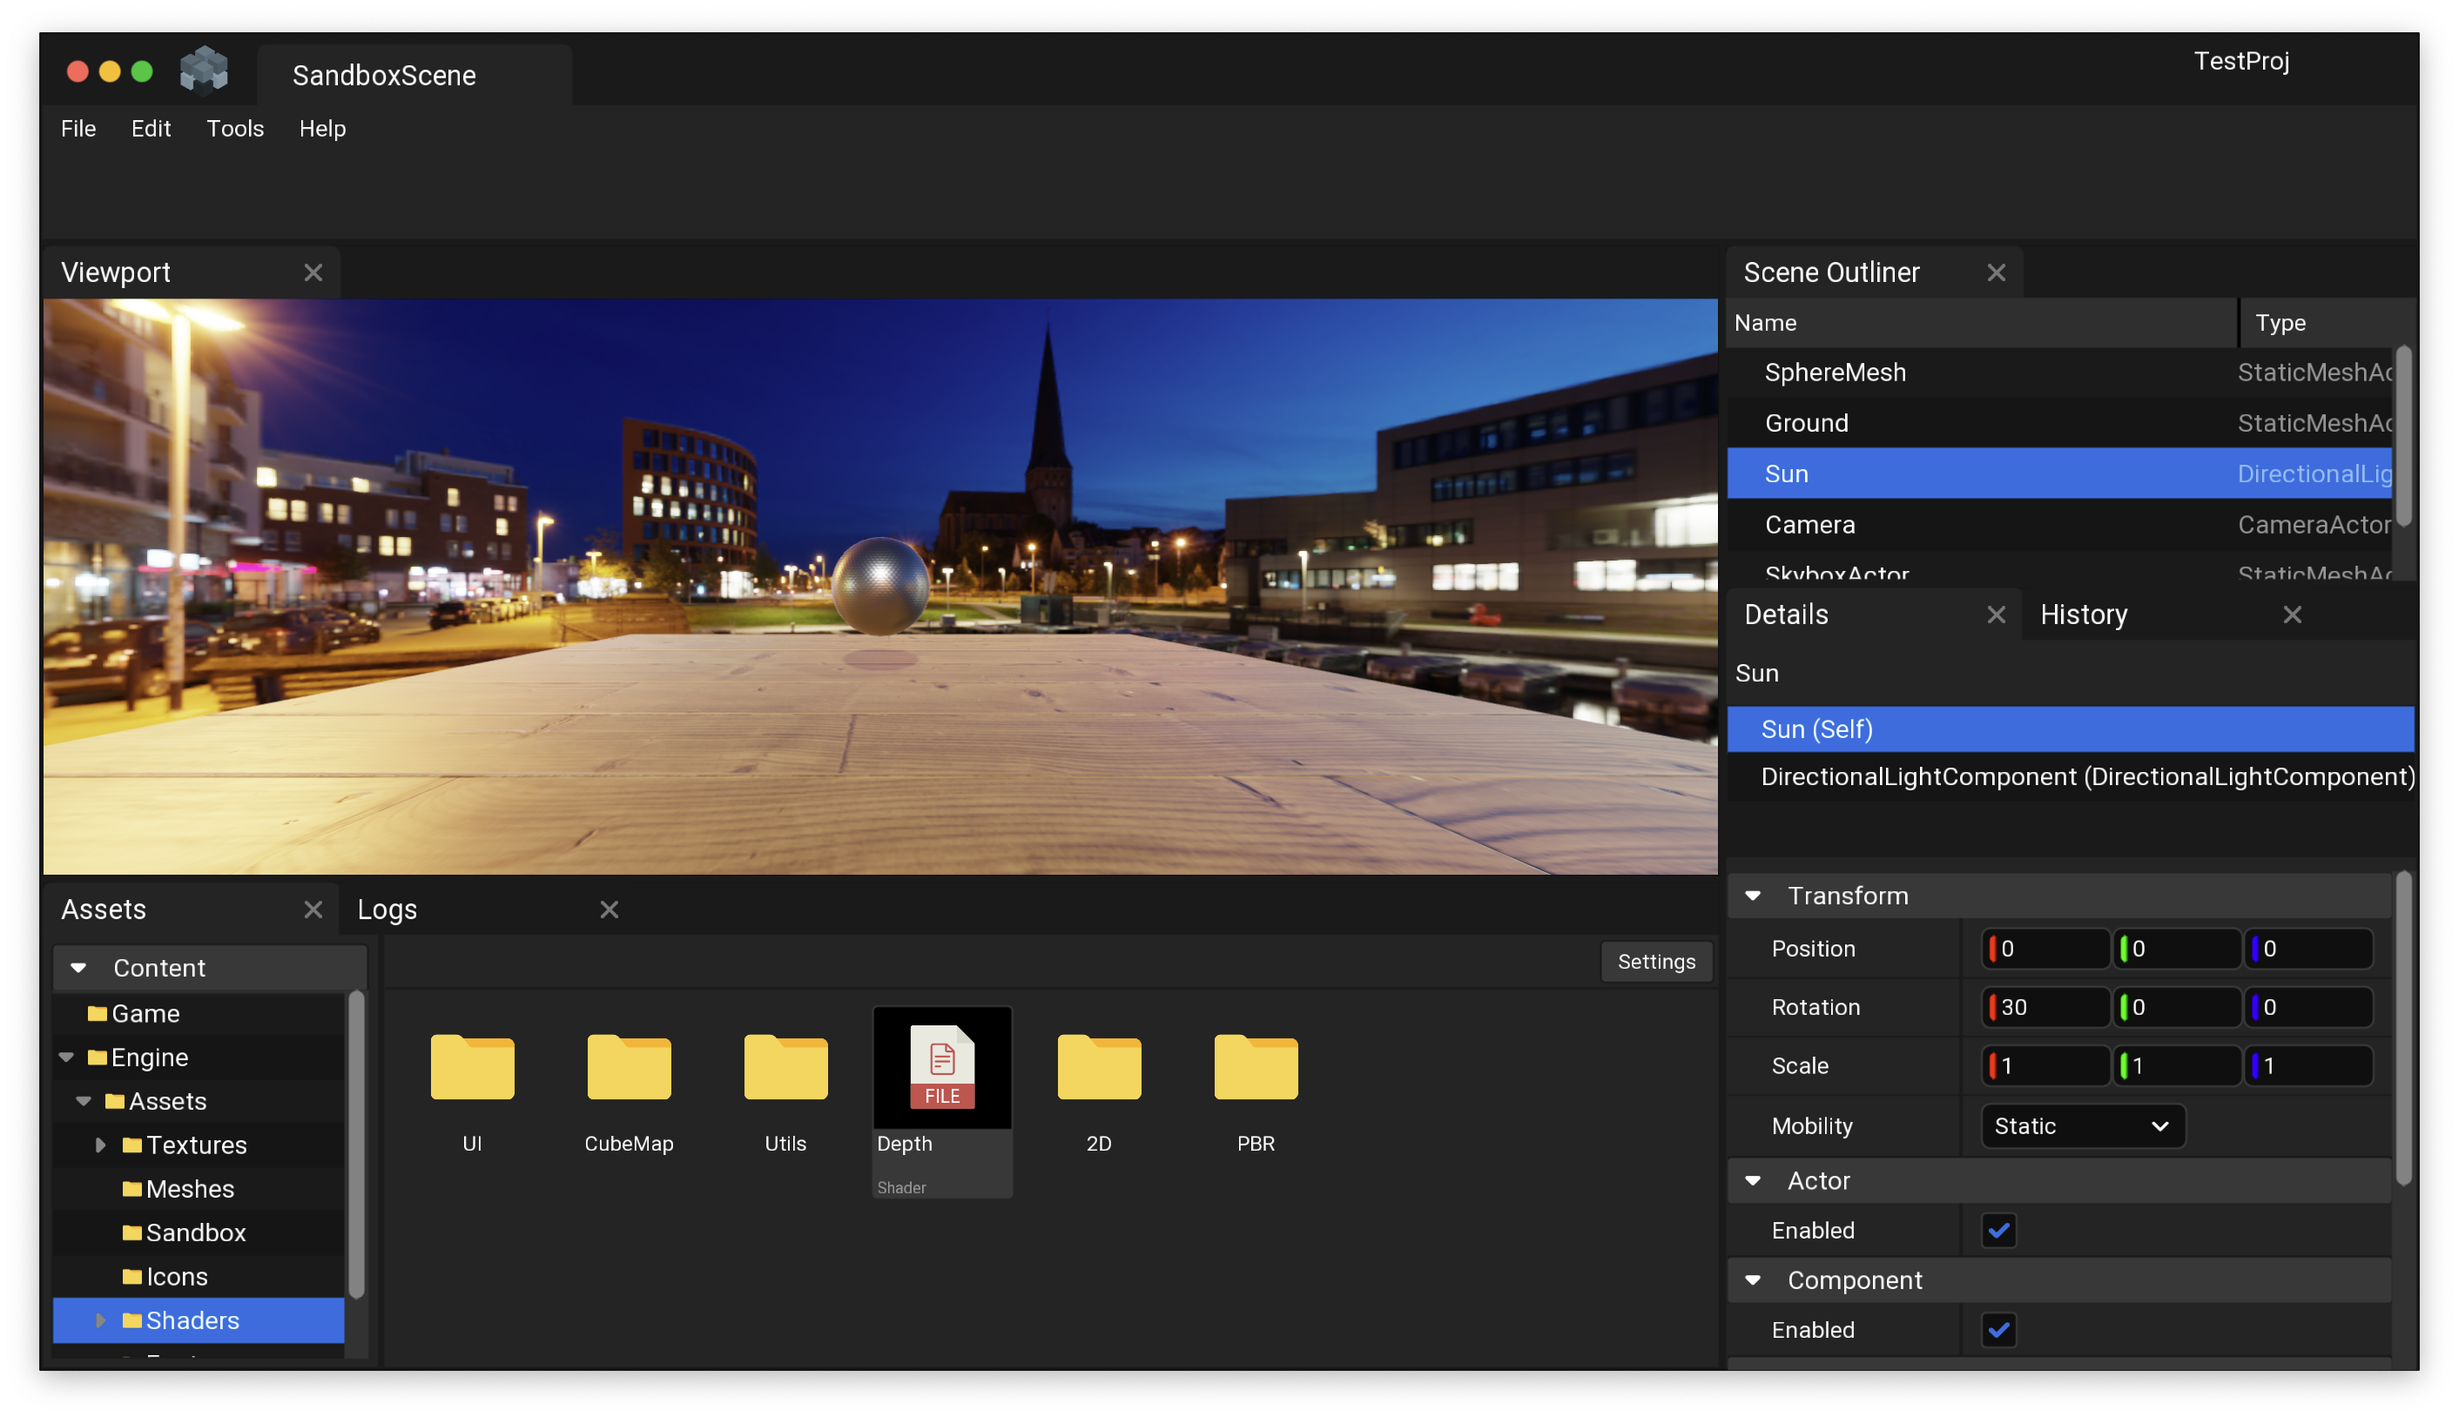
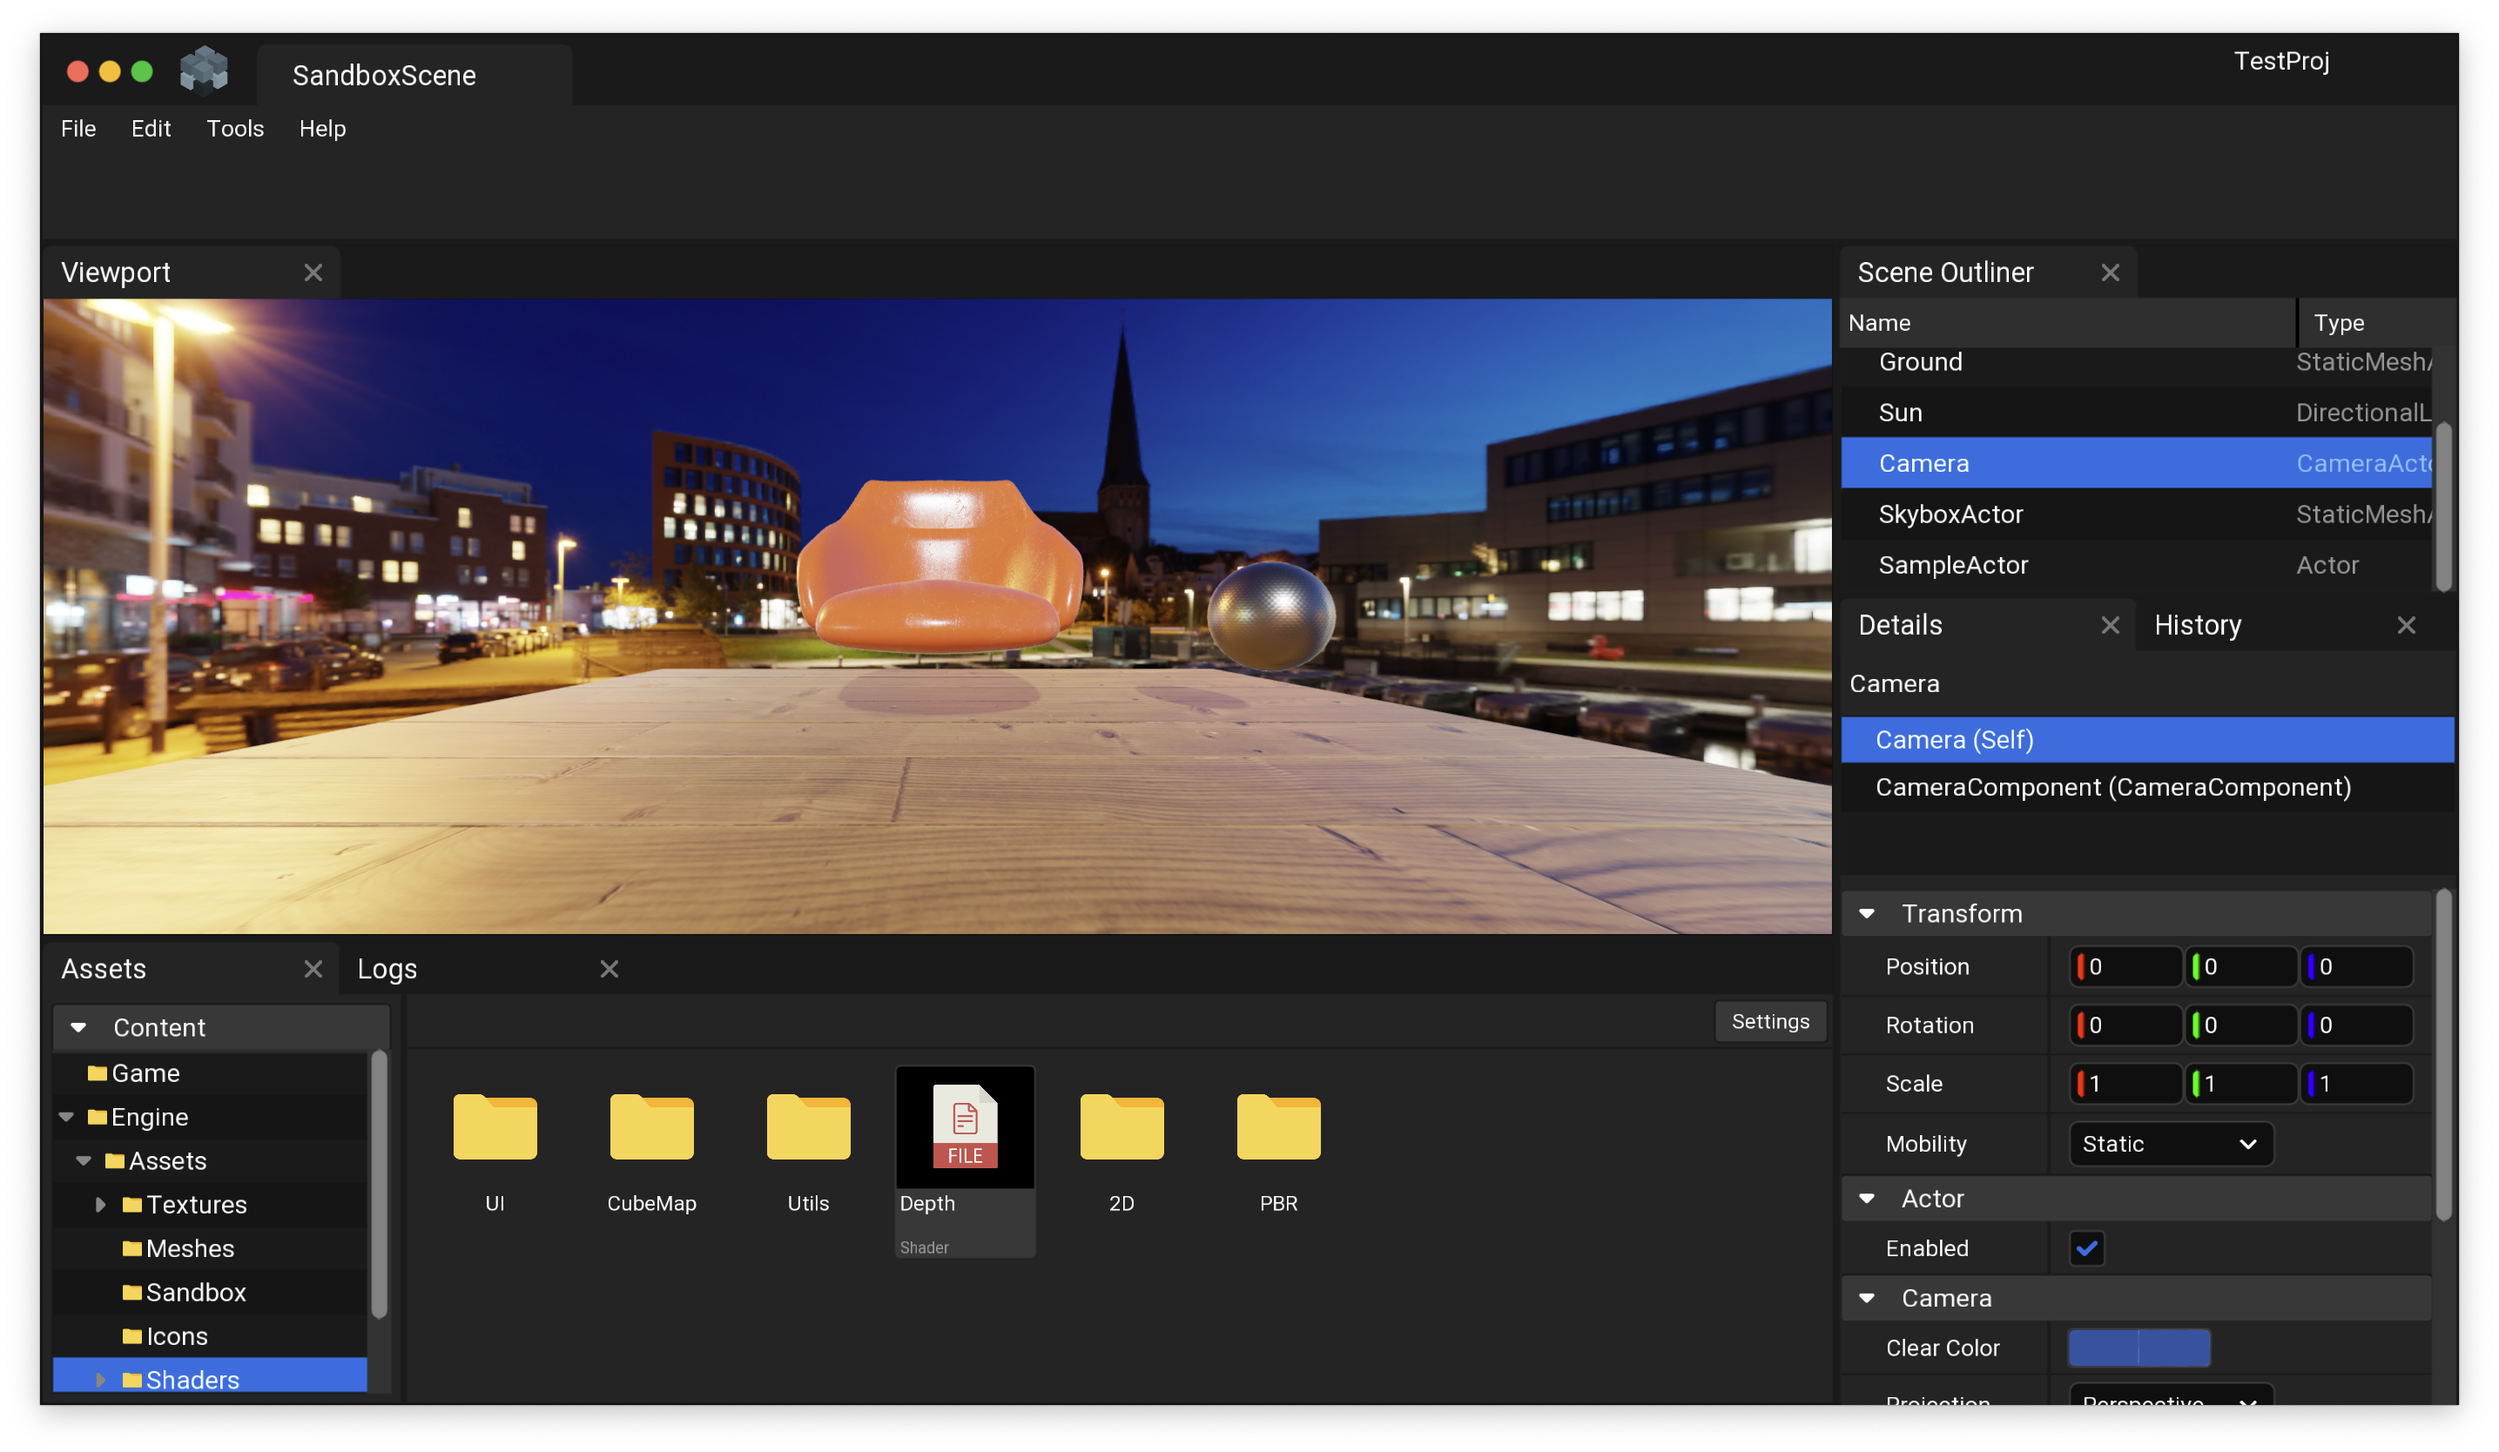
minor changes

diff --git a/Editor/Source/CrystalEditor/Private/CrystalEditor/Editor/SceneEditor/SceneEditor.cpp b/Editor/Source/CrystalEditor/Private/CrystalEditor/Editor/SceneEditor/SceneEditor.cpp
@@ -86,12 +86,24 @@ namespace CE::Editor
                 cubeMesh->SetModelAsset(cubeModel);
             }
 
+            Ref<StaticMesh> chairMesh = assetManager->LoadAssetAtPath<StaticMesh>("/Engine/Assets/Sandbox/chair");
+            StaticMeshActor* chairActor = CreateObject<StaticMeshActor>(scene, "ChairActor");
+            scene->AddActor(chairActor);
+            {
+                StaticMeshComponent* meshComponent = chairActor->GetMeshComponent();
+                meshComponent->SetStaticMesh(chairMesh);
+                meshComponent->SetLocalPosition(Vec3(0, 0, 5));
+                meshComponent->SetLocalEulerAngles(Vec3(-90, -180, 0));
+                meshComponent->SetLocalScale(Vec3(1, 1, 1) * 0.05f);
+                meshComponent->SetMaterial(plasticMaterial, 0, 0);
+            }
+
             StaticMeshActor* sphereActor = CreateObject<StaticMeshActor>(scene, "SphereMesh");
             scene->AddActor(sphereActor);
 	        {
 		        StaticMeshComponent* meshComponent = sphereActor->GetMeshComponent();
             	meshComponent->SetStaticMesh(sphereMesh);
-            	meshComponent->SetLocalPosition(Vec3(0, 0, 5));
+            	meshComponent->SetLocalPosition(Vec3(3, 0, 5));
             	meshComponent->SetLocalEulerAngles(Vec3(0, 0, 0));
             	meshComponent->SetMaterial(aluminumMaterial, 0, 0);
 	        }

diff --git a/Engine/Source/Engine/Public/GameFramework/StaticMeshComponent.h b/Engine/Source/Engine/Public/GameFramework/StaticMeshComponent.h
@@ -17,7 +17,7 @@ namespace CE
 
 		virtual u32 GetLodSubMeshCount(u32 lodIndex) override;
 
-		void SetStaticMesh(StaticMesh* staticMesh);
+		void SetStaticMesh(Ref<StaticMesh> staticMesh);
         
 	protected:
 
@@ -28,7 +28,7 @@ namespace CE
 		void Tick(f32 delta) override;
 
 		FIELD(EditAnywhere, Category = "Static Mesh")
-		StaticMesh* staticMesh = nullptr;
+		Ref<StaticMesh> staticMesh = nullptr;
 
 		RPI::ModelHandle meshHandle{};
 

diff --git a/Engine/Source/Engine/Private/GameFramework/StaticMeshComponent.cpp b/Engine/Source/Engine/Private/GameFramework/StaticMeshComponent.cpp
@@ -39,7 +39,7 @@ namespace CE
 	    return Super::GetLodSubMeshCount(lodIndex);
     }
 
-    void StaticMeshComponent::SetStaticMesh(StaticMesh* staticMesh)
+    void StaticMeshComponent::SetStaticMesh(Ref<StaticMesh> staticMesh)
     {
         this->staticMesh = staticMesh;
         meshChanged = true;
